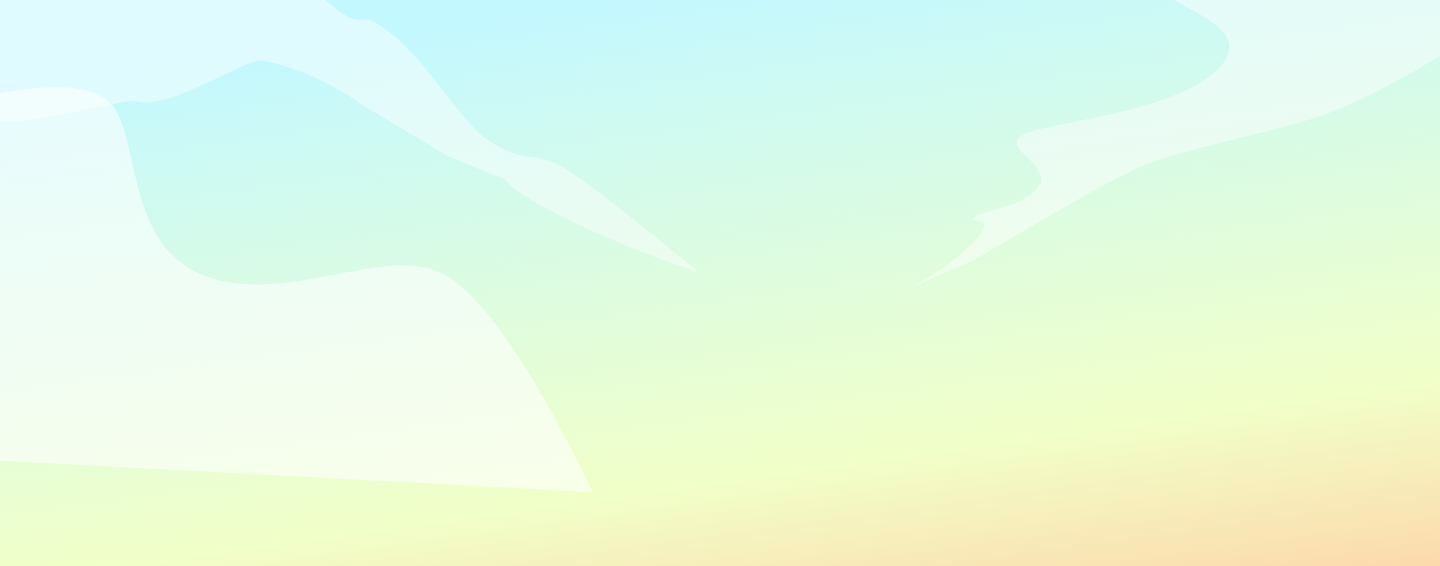
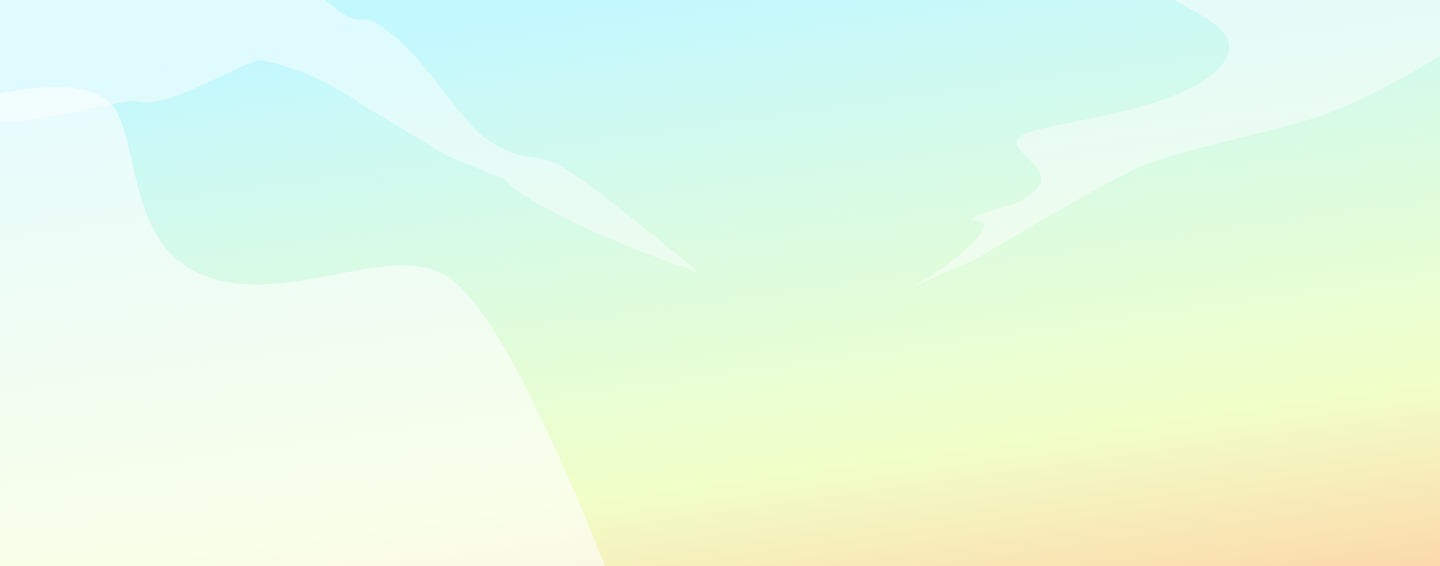
#time 1h 0m adding new background

Changed region(s): [[0.0, 0.7208, 0.4375, 1.0], [0.3438, 0.6908, 0.375, 0.7208]]

diff --git a/site/index.html b/site/index.html
@@ -10,8 +10,8 @@
 <meta property="og:image" content="https://truetokensale.com/static/images/logos/logo-share-true.png">
 <meta property="og:type" content="website">
 <meta property="og:site_name" content="True">
-<script src="static/js/vendors.js?cache=1562907437726"></script>
-<link rel="stylesheet" href="static/css/styles.css?cache=1562907437726">
+<script src="static/js/vendors.js?cache=1562979546370"></script>
+<link rel="stylesheet" href="static/css/styles.css?cache=1562979546370">
 <link rel="shortcut icon" type="image/x-icon" href="static/images/favicon.png">
 
     </head>
@@ -57,7 +57,9 @@
                     <img class="main-site__hills2" data-scroll-speed="10" src="static/images/ui/scenery/stage-hills2.png" width="100%" />
                     <img class="main-site__hills3" data-scroll-speed="5" src="static/images/ui/scenery/stage-hills3.png" width="100%" />
                     <img class="main-site__hills4" data-scroll-speed="4" src="static/images/ui/scenery/stage-hills4.png" width="100%" />
-                    <img class="main-site__background" src="static/images/ui/backgrounds/bg-main-site4.png" width="100%" />
+                    <img class="main-site__background" src="static/images/ui/backgrounds/bg-main-site6.png" width="100%" />
+                    <!-- <img class="main-site__shine" src="static/images/ui/backgrounds/bg-main-shine.png" width="100%" /> -->
+                    <img class="main-site__shim" src="static/images/ui/backgrounds/bg-main-shim.png" width="100%" />
                     <img class="main-site__mountains" data-scroll-speed="-12" src="static/images/ui/scenery/stage-mountains.png" width="100%" />
                 
 
@@ -169,6 +171,6 @@
     
         </div> -->
 
-        <script src="static/js/app.js?cache=1562907437726"></script>
+        <script src="static/js/app.js?cache=1562979546370"></script>
     </body>
 </html>

diff --git a/src/sass/partials/home.scss b/src/sass/partials/home.scss
@@ -18,7 +18,7 @@ $hero-animation-duration-long: 2s;
     width: 100%;
     height: 560px;
     background-color: $color-hero-bg;
-    background: url('../images/ui/scenery/bg-hero.jpg') 50% 50% no-repeat;
+    background: url('../images/ui/scenery/bg-hero.png') 50% 50% no-repeat;
     background-size: cover;
     opacity: 0;
     &.-animate {
@@ -154,13 +154,13 @@ $hero-animation-duration-long: 2s;
 .main-site__hills1 {
     position: absolute;
     top: 11.6%;
-    z-index: 3;
+    z-index: 5;
 }
 
 .main-site__hills2 {
     position: absolute;
     top: 11.2%;
-    z-index: 4;
+    z-index: 5;
 }
 
 .main-site__hills3 {
@@ -183,7 +183,19 @@ $hero-animation-duration-long: 2s;
 .main-site__background {
     display: block;
     position: relative;
+    z-index: 4;
+    margin-top: 35%;
+}
+.main-site__shim {
+    position: absolute;
     z-index: 2;
+    top: 14.25%;
+}
+
+.main-site__shine {
+    position: fixed;
+    z-index: 3;
+    top: 20%;
 }
 
 .section-starts {
@@ -244,7 +256,7 @@ $hero-animation-duration-long: 2s;
 
 .house-scene {
     position: absolute;
-    top: 53.5%;
+    top: 51.5%;
     z-index: 9;
     left: 0;
     width: 35%;

diff --git a/src/html/site/index.html b/src/html/site/index.html
@@ -42,7 +42,9 @@
                     <img class="main-site__hills2" data-scroll-speed="10" src="static/images/ui/scenery/stage-hills2.png" width="100%" />
                     <img class="main-site__hills3" data-scroll-speed="5" src="static/images/ui/scenery/stage-hills3.png" width="100%" />
                     <img class="main-site__hills4" data-scroll-speed="4" src="static/images/ui/scenery/stage-hills4.png" width="100%" />
-                    <img class="main-site__background" src="static/images/ui/backgrounds/bg-main-site4.png" width="100%" />
+                    <img class="main-site__background" src="static/images/ui/backgrounds/bg-main-site6.png" width="100%" />
+                    <!-- <img class="main-site__shine" src="static/images/ui/backgrounds/bg-main-shine.png" width="100%" /> -->
+                    <img class="main-site__shim" src="static/images/ui/backgrounds/bg-main-shim.png" width="100%" />
                     <img class="main-site__mountains" data-scroll-speed="-12" src="static/images/ui/scenery/stage-mountains.png" width="100%" />
                 
 

diff --git a/site/static/css/styles.css b/site/static/css/styles.css
@@ -656,7 +656,7 @@ section {
   width: 100%;
   height: 560px;
   background-color: #ffffff;
-  background: url("../images/ui/scenery/bg-hero.jpg") 50% 50% no-repeat;
+  background: url("../images/ui/scenery/bg-hero.png") 50% 50% no-repeat;
   background-size: cover;
   opacity: 0;
 }
@@ -802,13 +802,13 @@ section {
 .main-site__hills1 {
   position: absolute;
   top: 11.6%;
-  z-index: 3;
+  z-index: 5;
 }
 
 .main-site__hills2 {
   position: absolute;
   top: 11.2%;
-  z-index: 4;
+  z-index: 5;
 }
 
 .main-site__hills3 {
@@ -832,7 +832,20 @@ section {
 .main-site__background {
   display: block;
   position: relative;
+  z-index: 4;
+  margin-top: 35%;
+}
+
+.main-site__shim {
+  position: absolute;
   z-index: 2;
+  top: 14.25%;
+}
+
+.main-site__shine {
+  position: fixed;
+  z-index: 3;
+  top: 20%;
 }
 
 .section-starts {
@@ -903,7 +916,7 @@ section {
 
 .house-scene {
   position: absolute;
-  top: 53.5%;
+  top: 51.5%;
   z-index: 9;
   left: 0;
   width: 35%;

diff --git a/src/css/styles.css b/src/css/styles.css
@@ -618,7 +618,7 @@ section {
   width: 100%;
   height: 560px;
   background-color: #ffffff;
-  background: url("../images/ui/scenery/bg-hero.jpg") 50% 50% no-repeat;
+  background: url("../images/ui/scenery/bg-hero.png") 50% 50% no-repeat;
   background-size: cover;
   opacity: 0;
 }
@@ -752,13 +752,13 @@ section {
 .main-site__hills1 {
   position: absolute;
   top: 11.6%;
-  z-index: 3;
+  z-index: 5;
 }
 
 .main-site__hills2 {
   position: absolute;
   top: 11.2%;
-  z-index: 4;
+  z-index: 5;
 }
 
 .main-site__hills3 {
@@ -782,7 +782,20 @@ section {
 .main-site__background {
   display: block;
   position: relative;
+  z-index: 4;
+  margin-top: 35%;
+}
+
+.main-site__shim {
+  position: absolute;
   z-index: 2;
+  top: 14.25%;
+}
+
+.main-site__shine {
+  position: fixed;
+  z-index: 3;
+  top: 20%;
 }
 
 .section-starts {
@@ -842,7 +855,7 @@ section {
 
 .house-scene {
   position: absolute;
-  top: 53.5%;
+  top: 51.5%;
   z-index: 9;
   left: 0;
   width: 35%;
